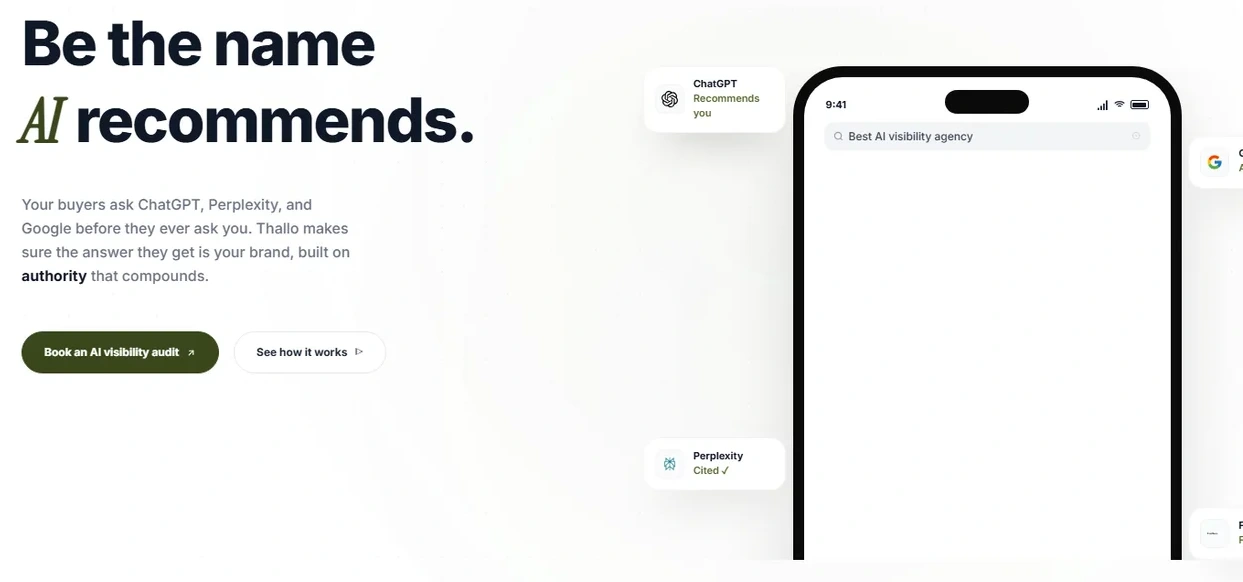
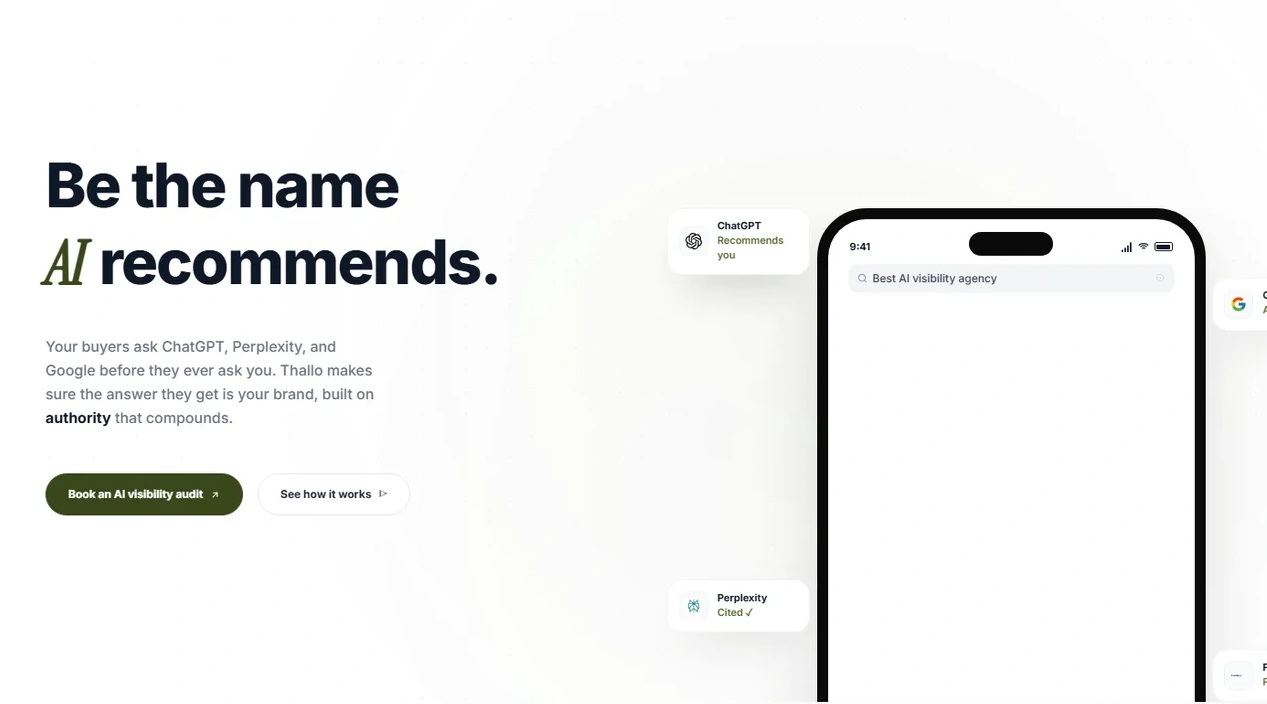
Vitrina: las tres capturas a la misma medida, sin la barra de scroll
Las tres pasan a 1267x704 (proporcion 1.8), que es la medida de la
captura de CS Travel -que era la que quedaba bien- menos 13 px.

Esos 13 px eran la barra de scroll del navegador, que se colo en la
captura como una linea blanca pegada al borde derecho: dentro del marco
parecia un filo mal cortado en vez de azul hasta el final.

El panel se recorta por abajo y la de Thallo por arriba, donde solo
habia blanco de la pagina. Con las tres iguales, el escenario ya no
reserva alto de mas para la mas alta: sale de --sc-ar, una sola
variable, para que quien meta una captura nueva sepa a que proporcion
tiene que recortarla.

diff --git a/index.html b/index.html
@@ -296,7 +296,7 @@
        @font-face, que va emparejado con los preload de las fuentes.
        El <link> es bloqueante y esta en el <head>, asi que no hay flash de
        contenido sin estilo: la pagina pinta ya con la hoja aplicada. -->
-  <link rel="stylesheet" href="/assets/portada.css?v=20260729a">
+  <link rel="stylesheet" href="/assets/portada.css?v=20260729b">
 </head>
 
 <body>
@@ -340,9 +340,14 @@
     <!-- Vitrina de trabajo real. Cada tarjeta es una captura del sitio en vivo
          del cliente, no un mockup: por eso llevan enlace y se abren en pestaña
          nueva. Reglas del diseño, por si se toca luego:
-         · Las capturas NO se recortan — son páginas web y cortarlas esconde
-           justo lo que hay que enseñar. El marco de tablet se ajusta al alto
-           que pida la imagen, nunca al revés.
+         · Las capturas NO se recortan por CSS — son páginas web y cortarlas
+           esconde justo lo que hay que enseñar. El marco se ajusta al alto que
+           pida la imagen, nunca al revés.
+         · Las tres van a 1267×704 (proporción 1.8). Es la medida de la captura
+           de CS Travel, que es la que quedó bien, menos los 13 px de la barra
+           de scroll blanca que se coló en el borde derecho. Si entra una
+           captura nueva, recortarla a esa misma proporción: el escenario
+           reserva el alto contando con ella (ver --sc-ar en portada.css).
          · Nada de rotaciones ni de tarjetas ladeadas: las tres van derechas.
          · Las posiciones (centro, izquierda, derecha) las reparte el JS con
            clases y van rotando solas; aquí solo va el orden de la baraja. -->
@@ -352,8 +357,8 @@
             <a class="pad" href="https://www.cstravelgroup.com/" target="_blank" rel="noopener">
               <span class="pad-cam" aria-hidden="true"></span>
               <span class="pad-screen">
-                <img src="assets/trabajo-cstravel-home.webp" alt="Portada del sitio de CS Travel Group"
-                  width="1280" height="704" fetchpriority="high" decoding="async">
+                <img src="assets/trabajo-cstravel-home.webp?v=3" alt="Portada del sitio de CS Travel Group"
+                  width="1267" height="704" fetchpriority="high" decoding="async">
               </span>
             </a>
             <p class="sc-caption">CS Travel Group <span>Sitio web</span></p>
@@ -365,8 +370,8 @@
             <div class="pad">
               <span class="pad-cam" aria-hidden="true"></span>
               <span class="pad-screen">
-                <img src="assets/trabajo-cstravel-software.webp" alt="Panel de la plataforma de CS Travel Group"
-                  width="1280" height="800" decoding="async">
+                <img src="assets/trabajo-cstravel-software.webp?v=3" alt="Panel de la plataforma de CS Travel Group"
+                  width="1267" height="704" decoding="async">
               </span>
             </div>
             <p class="sc-caption">CS Travel Group <span>Software a medida</span></p>
@@ -375,12 +380,10 @@
             <a class="pad" href="https://theo272004.github.io/thallo-digital/" target="_blank" rel="noopener">
               <span class="pad-cam" aria-hidden="true"></span>
               <span class="pad-screen">
-                <!-- La captura venía con 229 px de blanco muerto arriba: dentro
-                     del marco parecía una tableta estirada con un hueco. Va
-                     recortada al contenido, y el ?v= es para que el navegador
-                     suelte la versión vieja que tiene en caché. -->
-                <img src="assets/trabajo-thallo.webp?v=2" alt="Portada del sitio de Thallo Digital"
-                  width="1243" height="582" decoding="async">
+                <!-- El ?v= es para que el navegador suelte la versión vieja que
+                     tiene en caché: el archivo cambió pero el nombre no. -->
+                <img src="assets/trabajo-thallo.webp?v=3" alt="Portada del sitio de Thallo Digital"
+                  width="1267" height="704" decoding="async">
               </span>
             </a>
             <p class="sc-caption">Thallo Digital <span>Sitio web y marca</span></p>

diff --git a/assets/portada.css b/assets/portada.css
@@ -605,6 +605,9 @@
       /* Ancho de la tableta del centro. Todo lo demás se mide contra esto. */
       --pad-w: clamp(280px, 46vw, 680px);
       --bezel: clamp(9px, 1vw, 15px);
+      /* Proporción de las capturas: las tres van a 1267×704. Si cambia, hay
+         que cambiarla aquí también o el escenario reserva un alto que no es. */
+      --sc-ar: 1.8;
       position: relative;
       margin-top: clamp(2rem, 4vw, 3.25rem);
       padding-inline: var(--pad);
@@ -618,8 +621,8 @@
       margin: 0 auto;
       padding: 0;
       /* Las tarjetas van absolutas, así que el alto hay que declararlo: el de
-         la captura más alta (16/10) más el marco y el pie de foto. */
-      height: calc(var(--pad-w) / 1.6 + var(--bezel) * 2 + 3.4rem);
+         la captura más el marco y el pie de foto. */
+      height: calc(var(--pad-w) / var(--sc-ar) + var(--bezel) * 2 + 3.4rem);
     }
 
     .sc-item {
